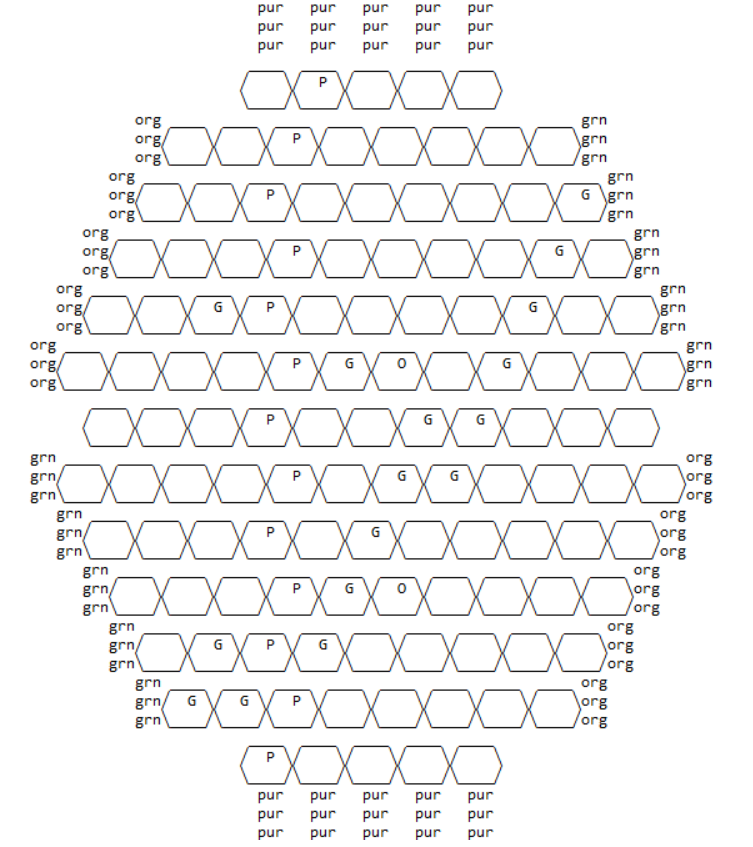
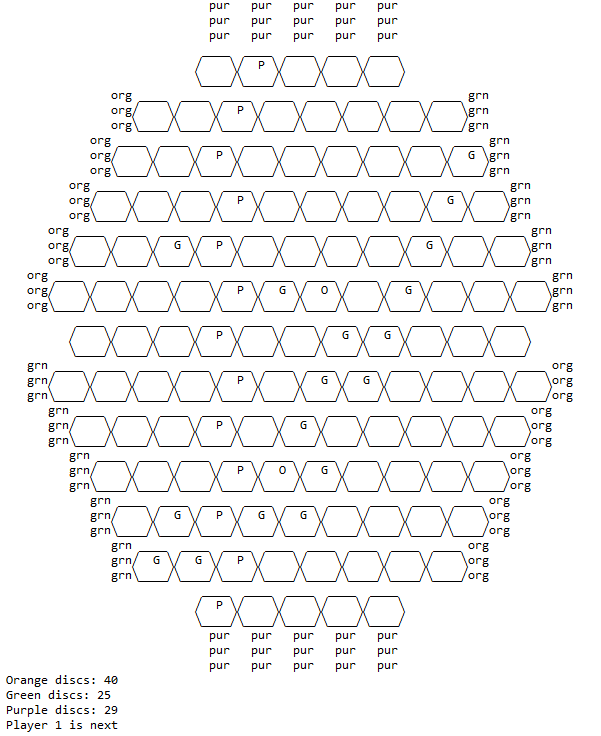
Small updates

Changed region(s): [[0.03, 0.0, 0.9584, 1.0], [0.0, 0.9062, 0.2097, 1.0]]

diff --git a/README.md b/README.md
@@ -5,10 +5,10 @@
 
 
 
-| Turma  | Nome          | Número    |
-| -------|---------------| ----------|
-| 3      | Davide Castro | 201806512 |
-| 3      | Rui Pinto     | 201806441 |
+| Turma  | Nome                             | Número    |
+| -------|----------------------------------| ----------|
+| 3      | Davide António Ferreira Castro   | 201806512 |
+| 3      | Rui Filipe Mendes Pinto          | 201806441 |
 
 <br />
 
@@ -179,9 +179,10 @@ green(42).
 </p>
 
 # Visualização do estado de jogo ##
-<p align="justify"> 
-    Para visualizar o tabuleiro usamos o predicado display_game/2 que imprime uma linha do tabuleiro (print_line/1) e continua recursivamente até imprimir todas as linhas. Através do predicado print_line/1 imprimimos no ecrã cada linha dividida por três partes(print_top, print_mid, print_bot), para conseguirmos as formas dos hexágonos com a letra da cor correspondente no centro.
-</p>
+Para visualizar o tabuleiro usamos o predicado display_game/2 que imprime uma linha do tabuleiro (print_line/1) e continua recursivamente até imprimir todas as linhas. 
+Através do predicado print_line/1 imprimimos no ecrã cada linha dividida por três partes(print_top, print_mid, print_bot), para conseguirmos as formas dos hexágonos com a letra da cor correspondente no centro. 
+Se uma célula conter um átomo de 'end' imprime a cor daquela extremidade; se for 'space' ou 'nodef' imprime espaços completamente vazios(não fazem parte do tabuleiro). Apenas quando contém o código de uma cor válida ou 'empty' imprime o hexágono com o disco correspondente ou vazio.
+No final da recursividade são também apresentados os números de discos disponíveis para jogar (display_discs/0) e o número do jogador atual (display_player/1).
 
 ```
 display_game([], Player) :- % Switch Player every time we end printing the board.
